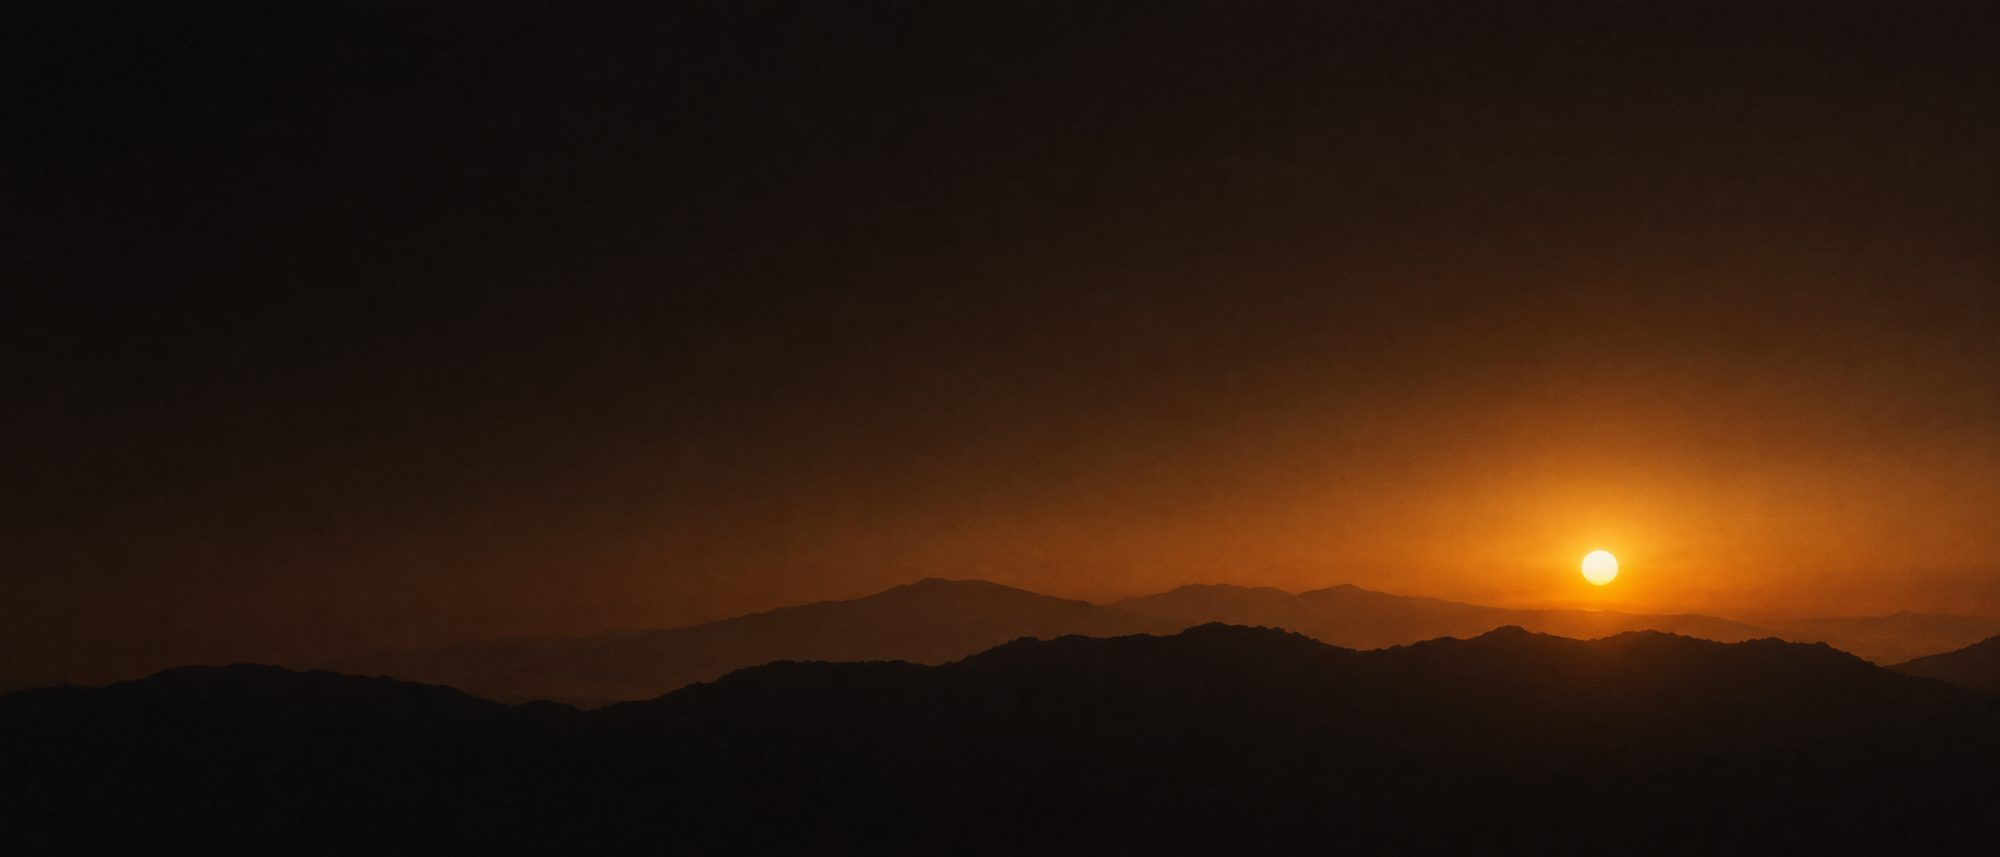
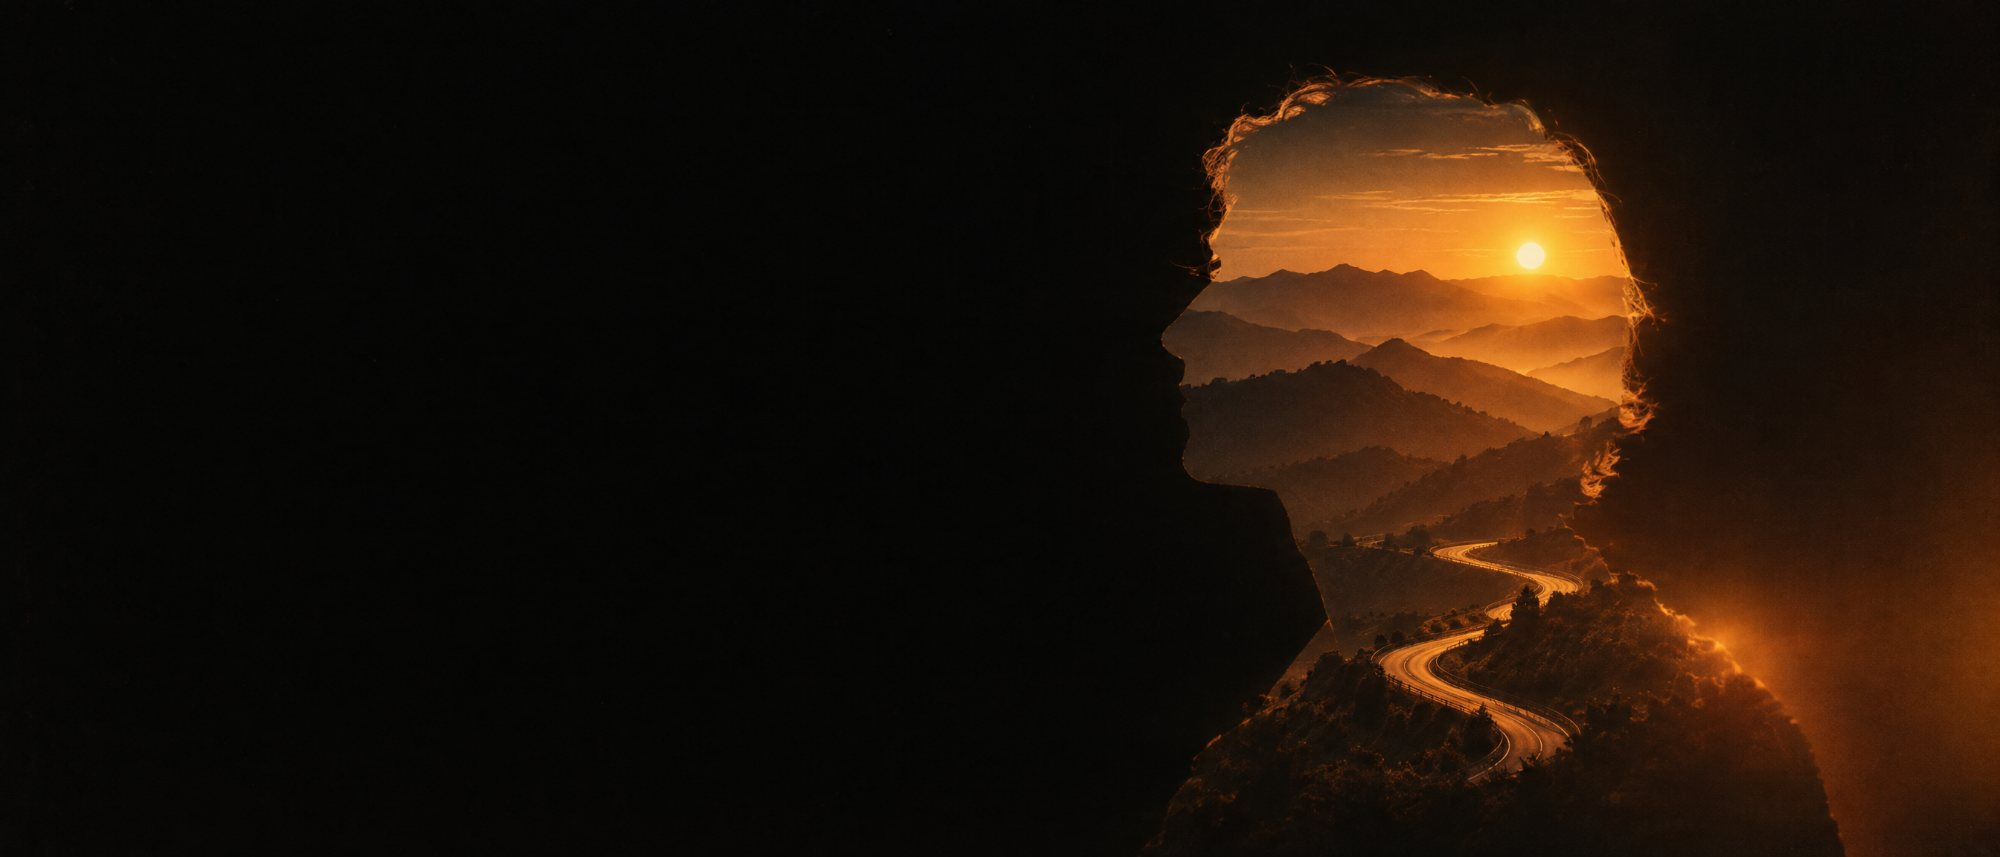
Portfolio: double-exposure hero and a crop that holds up on phones
Swaps the landscape hero for a creative double exposure: a profile
silhouette filled with a golden-hour valley and winding road, subject in
the right half so the headline sits on dark space. Biases the crop toward
the subject (object-position 62%, 70% under 760px) and adds a left-side
darkening gradient plus a heavier phone overlay so the text stays legible
at every width. Regenerated og.jpg.

Claude-Session: https://claude.ai/code/session_018hBP5bv5VxGGyh9p829kiw

diff --git a/public/portfolio.html b/public/portfolio.html
@@ -202,6 +202,8 @@
   .hero-bg { position: absolute; inset: 0; z-index: -2; }
   .hero-bg img {
     width: 100%; height: 100%; object-fit: cover;
+    /* the photo's subject sits in its right half; keep it in frame as the viewport narrows */
+    object-position: 62% 50%;
     transform-origin: 60% 40%;
     animation: hero-pan 36s ease-in-out infinite alternate;
   }
@@ -212,8 +214,15 @@
   .hero::after {
     content: ""; position: absolute; inset: 0; z-index: -1;
     background:
+      linear-gradient(90deg, rgba(10,9,8,.5) 0%, rgba(10,9,8,.22) 40%, transparent 68%),
       linear-gradient(180deg, rgba(10,9,8,.55) 0%, rgba(10,9,8,.1) 34%, rgba(10,9,8,.32) 68%, var(--bg) 100%),
       radial-gradient(120% 90% at 50% 110%, rgba(10,9,8,.5), transparent 60%);
+  }
+  @media (max-width: 760px) {
+    .hero-bg img { object-position: 70% 50%; }
+    .hero::after { background:
+      linear-gradient(180deg, rgba(10,9,8,.6) 0%, rgba(10,9,8,.42) 45%, rgba(10,9,8,.3) 70%, var(--bg) 100%),
+      radial-gradient(120% 90% at 50% 110%, rgba(10,9,8,.5), transparent 60%); }
   }
   .letterbox { position: absolute; left: 0; right: 0; height: clamp(14px, 3vh, 30px); background: #050403; z-index: 2; }
   .letterbox.top { top: 0; } .letterbox.bottom { bottom: 0; }
